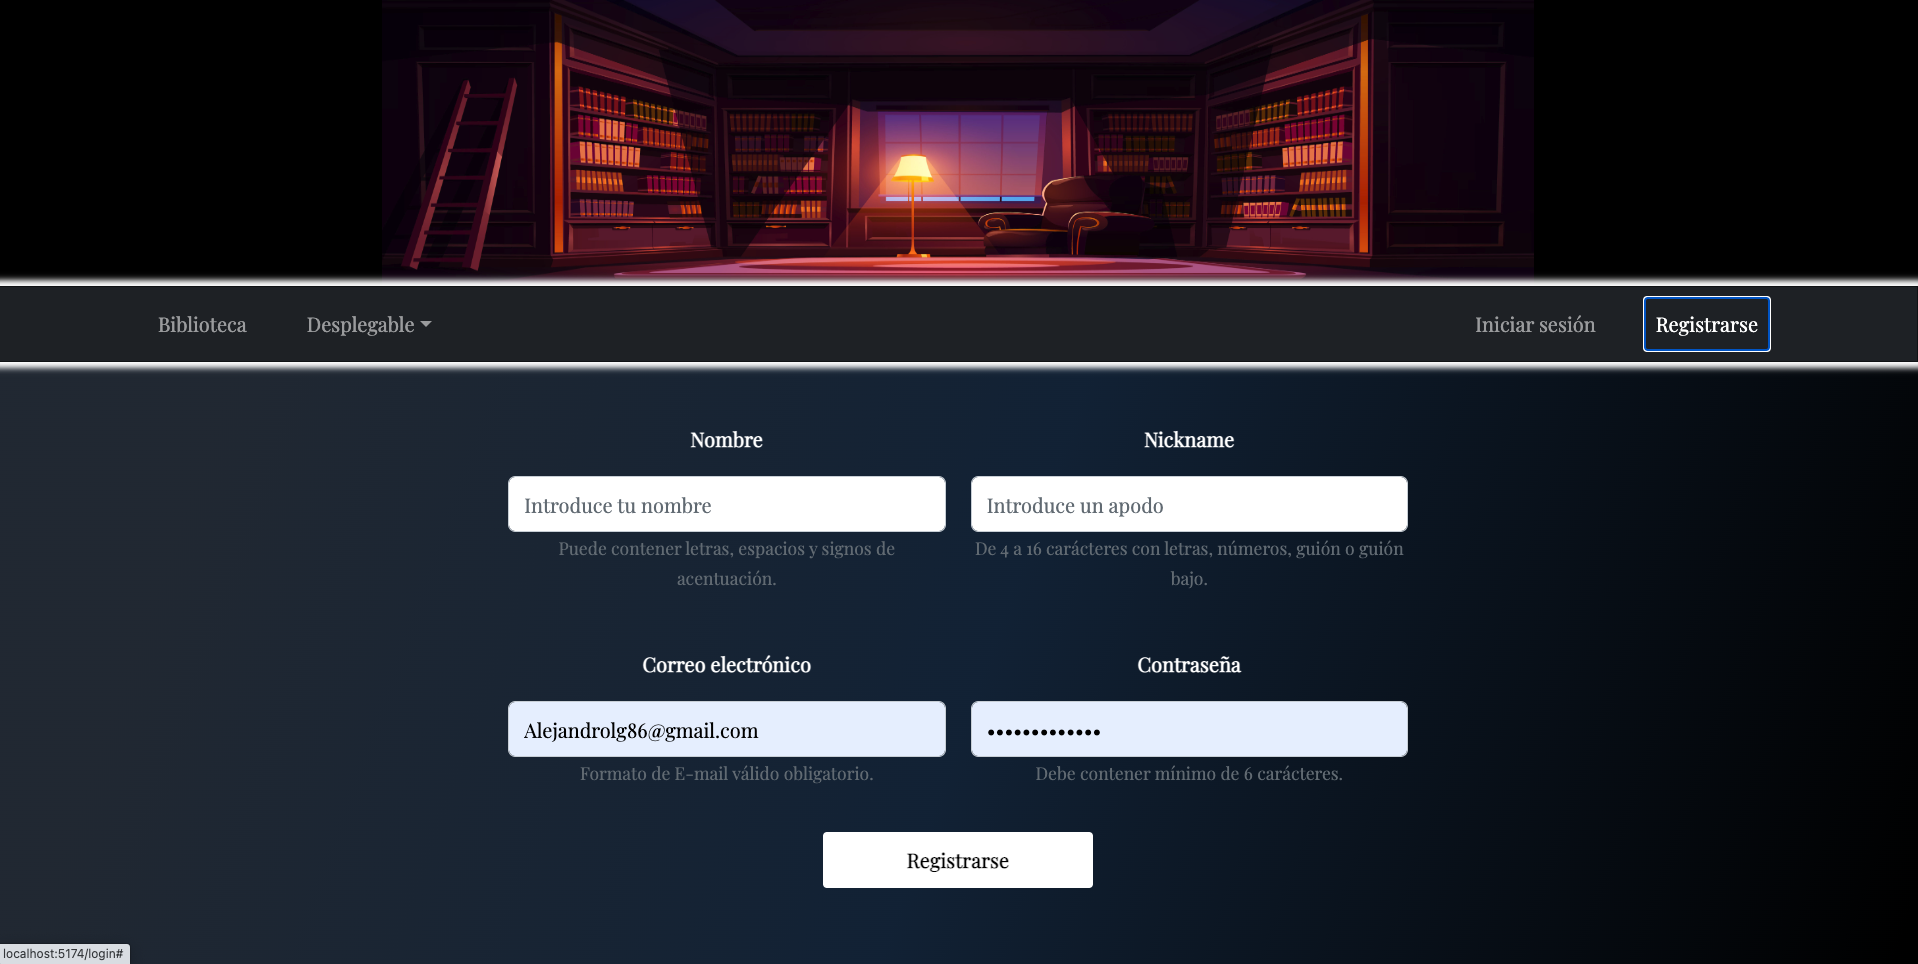
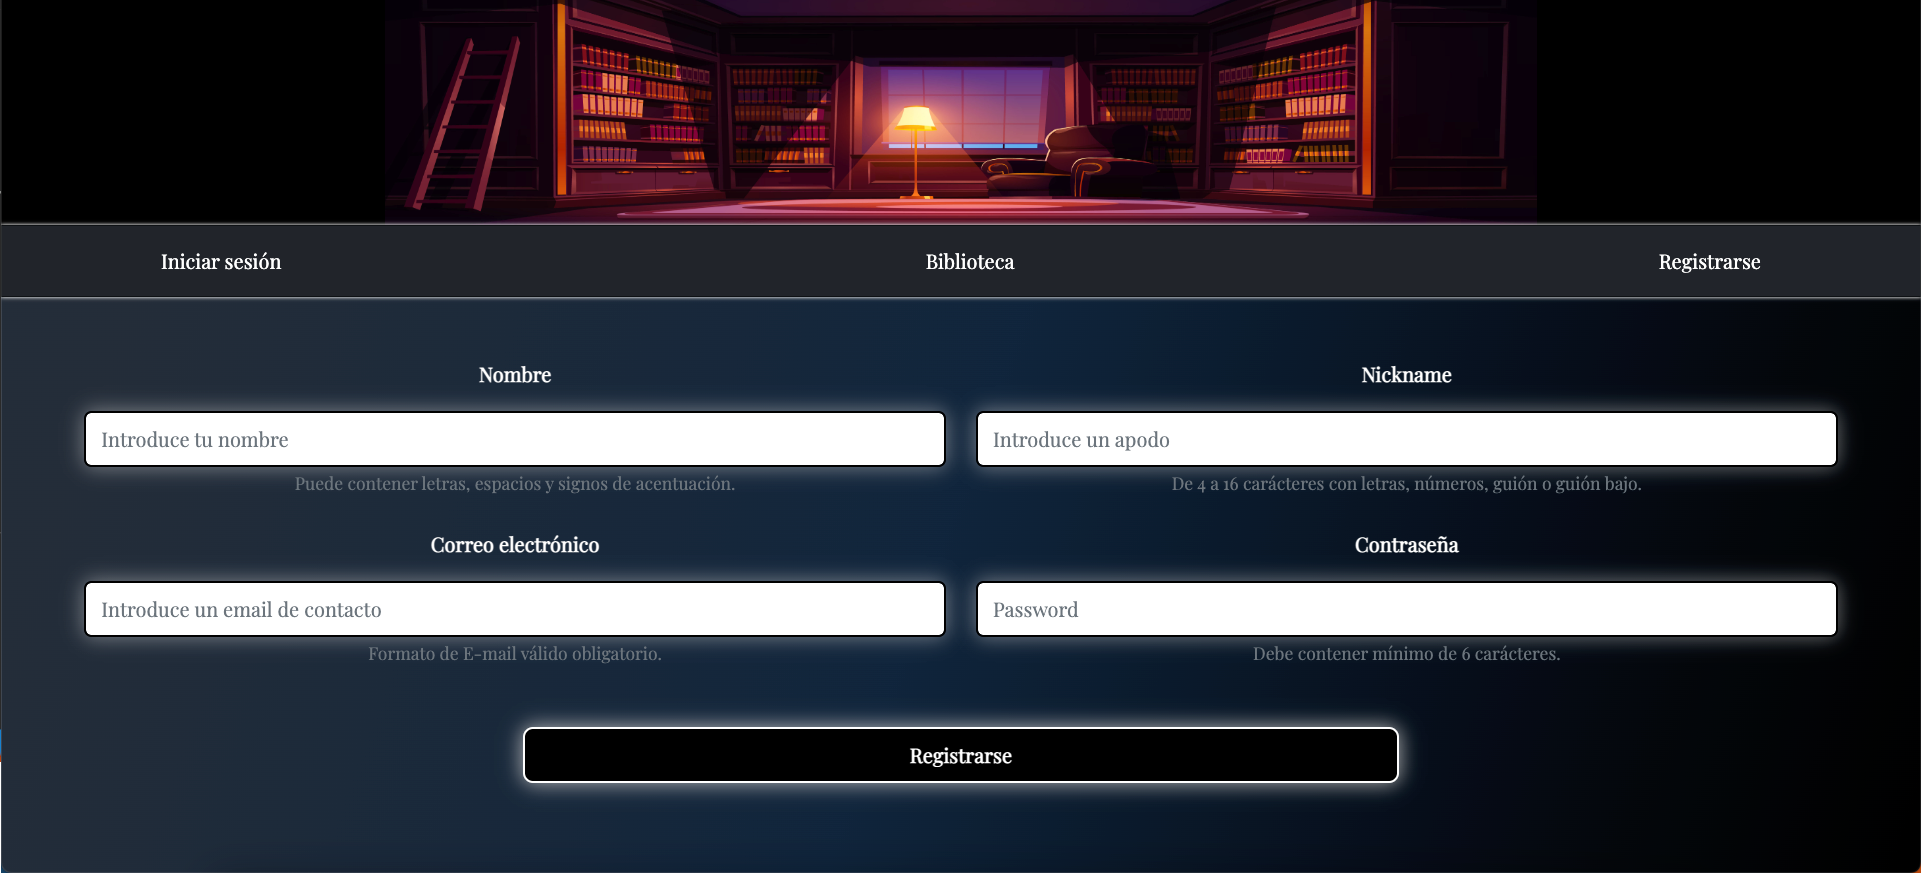
update: readme modifications

diff --git a/README.md b/README.md
@@ -2,14 +2,15 @@
 
 ---
 
-# <center>Aplicación reseñas de libros </center>
+# <center>Web reseñas de libros </center>
 
-Aplicación realizada en HTML, CSS y JS con React y Redux. Para las animaciones he utilizado la dependencia framer motion, para los estilos mdb-react y bootstrap-react. La aplicación también consta de un back-end que es parte de este mismo proyecto (añado el enlace al final).
+El proyecto ha sido realizada usando HTML, SASS y JavaScript, React y Redux. 
+Para las animaciones he utilizado framer motion y para los estilos mdb-react y bootstrap-react. La web también consta de un back-end que es parte de este mismo proyecto (añado el enlace al final).
 
 
 ---
 
->En esta aplicación podrás encontrar un reseñas de libros, o publicar las tuyas si quisieras, con el tiempo iré aumentando las funcionalidades de la aplicación ya que al ser un proyecto con límite de tiempo, he tenido que limitarme a unas carácteristicas mínimas para cumplir con unos carácteristicas mínimas.
+>Esta proyecto lo he diseñado con la finalidad de ser una web personal de reseñas litearias aunque está preparada para que nuevos usuarios se registren y publiquen sus reseñas o añadan nuevos libros.
 ---
 
 # 💻 Tech Stack:
@@ -17,33 +18,61 @@ Aplicación realizada en HTML, CSS y JS con React y Redux. Para las animaciones 
 ![HTML5](https://img.shields.io/badge/html5-%23E34F26.svg?style=for-the-badge&logo=html5&logoColor=white) ![JavaScript](https://img.shields.io/badge/javascript-%23323330.svg?style=for-the-badge&logo=javascript&logoColor=%23F7DF1E) ![AWS](https://img.shields.io/badge/AWS-%23FF9900.svg?style=for-the-badge&logo=amazon-aws&logoColor=white) ![React](https://img.shields.io/badge/react-%2320232a.svg?style=for-the-badge&logo=react&logoColor=%2361DAFB) ![Redux](https://img.shields.io/badge/redux-%23593d88.svg?style=for-the-badge&logo=redux&logoColor=white) ![SASS](https://img.shields.io/badge/SASS-hotpink.svg?style=for-the-badge&logo=SASS&logoColor=white) ![Bootstrap](https://img.shields.io/badge/bootstrap-%23563D7C.svg?style=for-the-badge&logo=bootstrap&logoColor=white) ![JWT](https://img.shields.io/badge/JWT-black?style=for-the-badge&logo=JSON%20web%20tokens) ![NPM](https://img.shields.io/badge/NPM-%23000000.svg?style=for-the-badge&logo=npm&logoColor=white) ![MUI](https://img.shields.io/badge/MUI-%230081CB.svg?style=for-the-badge&logo=material-ui&logoColor=white) ![Trello](https://img.shields.io/badge/Trello-%23026AA7.svg?style=for-the-badge&logo=Trello&logoColor=white)
 
 ---
-## Vista principal de aplicación
+## Vista principal
 <img src="/public/Img/Home.png" style="border-radius:0.1em;"/>
+
+>Vista de inicio donde se da información del proyecto y se especifica su finalidad.
 
 ---
 
 ### Inicio de sesión
-<img src="/public/Img/Login.png" style="border-radius:0.1em;"/>
+<img src="/public/Img/Login_validacion.png" style="border-radius:0.1em;"/>
 
 ---
 
 ### Nuevo usuario
 <img src="/public/Img/Registro.png" style="border-radius:0.1em;"/>
 
+>Todos los formularios ya sea para crear un registro nuevo, editarlo o eliminarlo, constan de un sistema de validaciones.
+
 ---
 
-### Vista completa de los libros existentes
-<img src="/public/Img/Libro1.png" style="margin-bottom:-1em; border-radius:0.1em;"/>
-<img src="/public/Img/Libro2.png" style="border-radius:0.1em;"/>
+### Vista frontal de todos los libros añadidos
+<img src="/public/Img/Libros_frontal.png" style="border-radius:0.1em;"/>
+---
+<img src="/public/Img/Barra_busqueda.png" style="border-radius:0.1em;"/>
 
->La vista incluye un buscador de libros por título, saga, género, autor o año de publicación.
+>Cada libro se compone de una parte frontal con enlaces a una tienda y a la wikipedia del escritor, además si se hace click en la imagen, esta gira para dar mayor información del libro. La barra de busqueda que se encuentra en la parte superior permite filtrar búsquedas por título, autor, género, saga o fecha de publicación.
+
+---
+
+### Vista trasera de uno de los libros
+<img src="/public/Img/Parte_trasera.png" style="border-radius:0.1em;"/>
+
+>La vista trasera de la cada libro incluye información adicional además de la opción de ver reseñas existentes de ese libro o crear una nueva si has iniciado sesión con una cuenta registrada, además permite únicamente a un Admin o al SuperAdmin de la web, eliminar o modificar libros existentes.
+
+---
+
+### Editar o eliminar un libro
+<img src="/public/Img/Boton_edit.png" style="border-radius:0.1em;"/>
+<img src="/public/Img/Boton_delete.png" style="border-radius:0.1em;"/>
+<img src="/public/Img/Ventana_eliminar.png" style="border-radius:0.1em;"/>
+
+>Botones para eliminar o modificar un libro existente, solo visible y accesible para el administrador o el SuperAdmin con una ventana de seguridad para confirmar que se quiere eliminar el libro.
 
 ---
 
 ### Añadir un nuevo libro
-<img src="/public/Img/NuevoLibro.png" style="border-radius:0.1em;"/>
+<img src="/public/Img/Nuevo_libro.png" style="border-radius:0.1em;"/>
 
->Cualquier usuario registrado puede añadir libros nuevos a la biblioteca, para poder eleminar un libro solo podrán hacerlo usuarios con permisos de <b>Admin</b>. 
+>Cualquier usuario registrado puede añadir libros nuevos en la biblioteca, quizás en un futuro esta opción cambie y solo pueda añadir libros el administrador o el SuperAdmin.
+
+---
+
+### Formulario de edición de libros
+<img src="/public/Img/Editar_libro.png" style="border-radius:0.1em;"/>
+
+>Formulario con sus validaciones correspondientes para editar un libro existente, solo accesible para un administrador o el SuperAdmin.
 
 ---
 
@@ -55,7 +84,18 @@ Aplicación realizada en HTML, CSS y JS con React y Redux. Para las animaciones 
 ---
 
 ### Vista del perfil de usuario
-<img src="/public/Img/Perfil.png" style="border-radius:0.1em;"/>
+<img src="/public/Img/Perfil_usuario.png" style="border-radius:0.1em;"/>
+<img src="/public/Img/Eliminar_perfil.png.png" style="border-radius:0.1em;"/>
+
+>Perfil del usuario, con opción de modificarlo o eliminarlo y ventana de seguridad para confirmar.
+
+---
+
+### Modificar datos del perfil
+
+<img src="/public/Img/Modificar_usuario.png" style="border-radius:0.1em;"/>
+
+>Vista para modificar los datos de un usuario existente con opción de modificar la imagen por defecto del perfil a elegir entre más de 15 avatares precargados.
 
 ---
 
